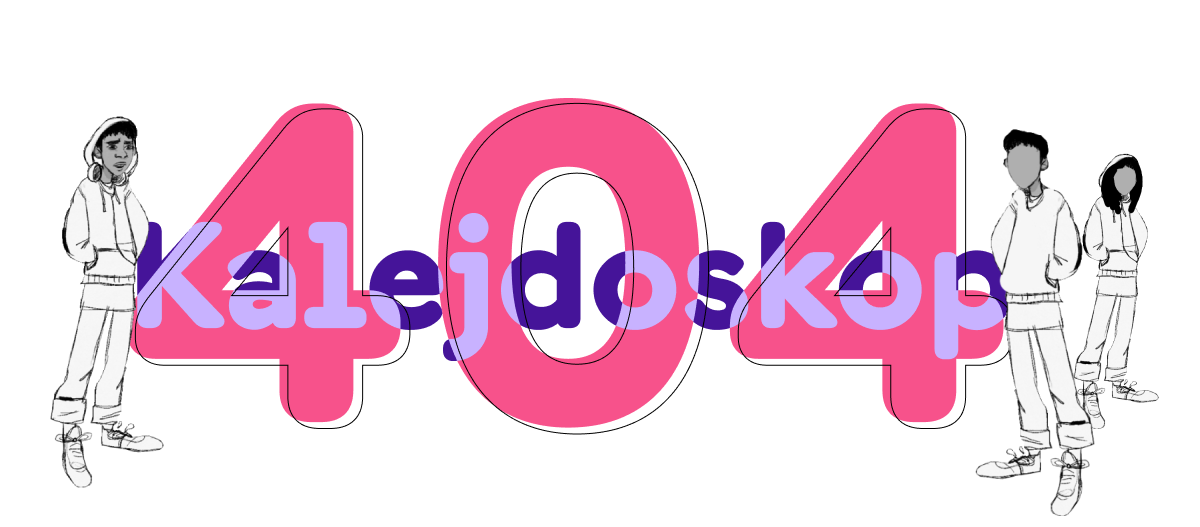
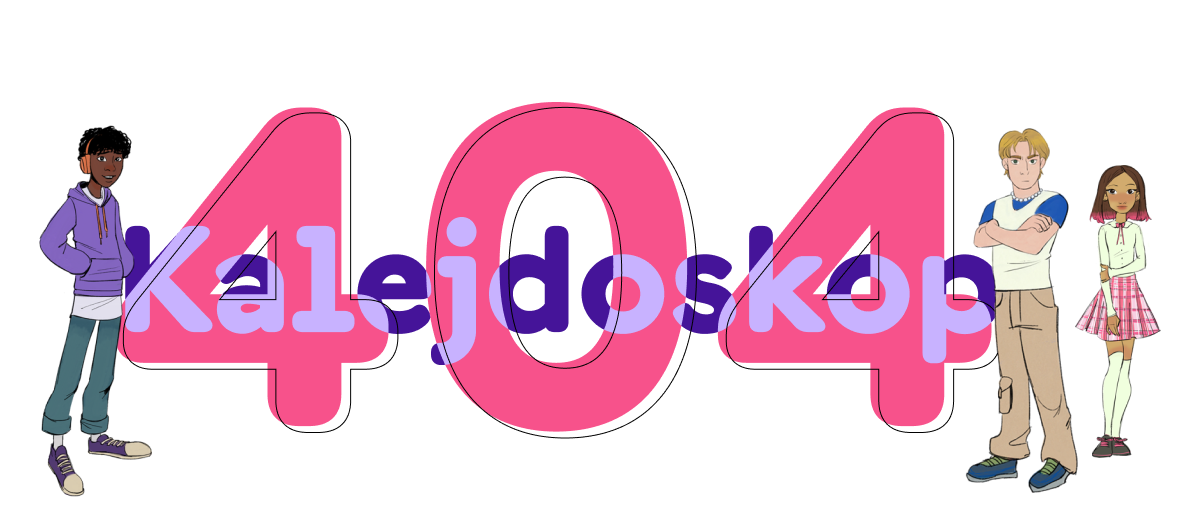
installed package and updated hero section

Changed region(s): [[0.0308, 0.1822, 0.9867, 0.9715], [0.4008, 0.759, 0.5242, 0.8501]]

diff --git a/src/components/CallToAction.tsx b/src/components/CallToAction.tsx
@@ -1,26 +1,64 @@
 import React from "react";
+import { motion } from "framer-motion";
+import { BrowserView, MobileView } from "react-device-detect";
 
 import { BsDownload } from "react-icons/bs";
 
+import { useStoreContext } from "~/context";
+
 function CallToAction() {
+  const { darkTheme } = useStoreContext();
+
   return (
-    <>
-      <div className="mt-10 flex justify-center">
+    <div className="relative">
+      <div className="max-w-screen relative max-h-screen overflow-hidden">
         <img
-          src="Logotype.png"
-          alt="Logotyp"
-          className="max-h-[250px] max-w-full"
+          src="/logo_layout_v5_no_text.png"
+          alt="Kalejdoskops tre karaktärer"
+          className="-z-10 h-[100%] w-[100%]"
         />
+        <motion.div
+          className="absolute bottom-4 left-[50%] hidden 2xl:inline-block"
+          transition={{ duration: 2, repeat: Infinity }}
+          initial={{ y: 0 }}
+          animate={{ y: [0, 6, 0] }}
+        >
+          <img
+            src="/arrow_icon_black.png"
+            alt="Neråtpil"
+            className=" h-[20px] w-[20px]"
+          />
+        </motion.div>
       </div>
 
-      <div className="flex justify-center">
-        <button className="m-4 transform rounded-full bg-accent px-6 py-2 text-lg text-white shadow-md transition duration-500 hover:scale-110 hover:bg-accentHover">
-          <a href="" download="Namn_på_spel.exe" className="flex items-center">
-            Ladda ner <BsDownload className="ml-2 stroke-[0.7]" />
-          </a>
-        </button>
+      <div
+        className="mt-4 flex w-full flex-col items-center md:mt-10"
+        style={
+          darkTheme
+            ? { backgroundColor: "white", color: "#000000" }
+            : { backgroundColor: "#000000", color: "white" }
+        }
+      >
+        <h3 className="mb-4 mt-10 px-4 text-lg md:text-3xl">
+          I Kalejdoskop får du leva dig in i tre ungdomars vardag. Spela nu!
+        </h3>
+
+        <BrowserView>
+          <div className="flex justify-center">
+            <button className="m-4 transform rounded-full bg-accent px-6 py-2 text-lg text-white shadow-md transition duration-500 hover:scale-110 hover:bg-accentHover">
+              <a
+                href=""
+                download="Namn_på_spel.exe"
+                className="flex items-center"
+              >
+                Ladda ner <BsDownload className="ml-2 stroke-[0.7]" />
+              </a>
+            </button>
+          </div>
+        </BrowserView>
+        <MobileView>Mobile</MobileView>
       </div>
-    </>
+    </div>
   );
 }
 
